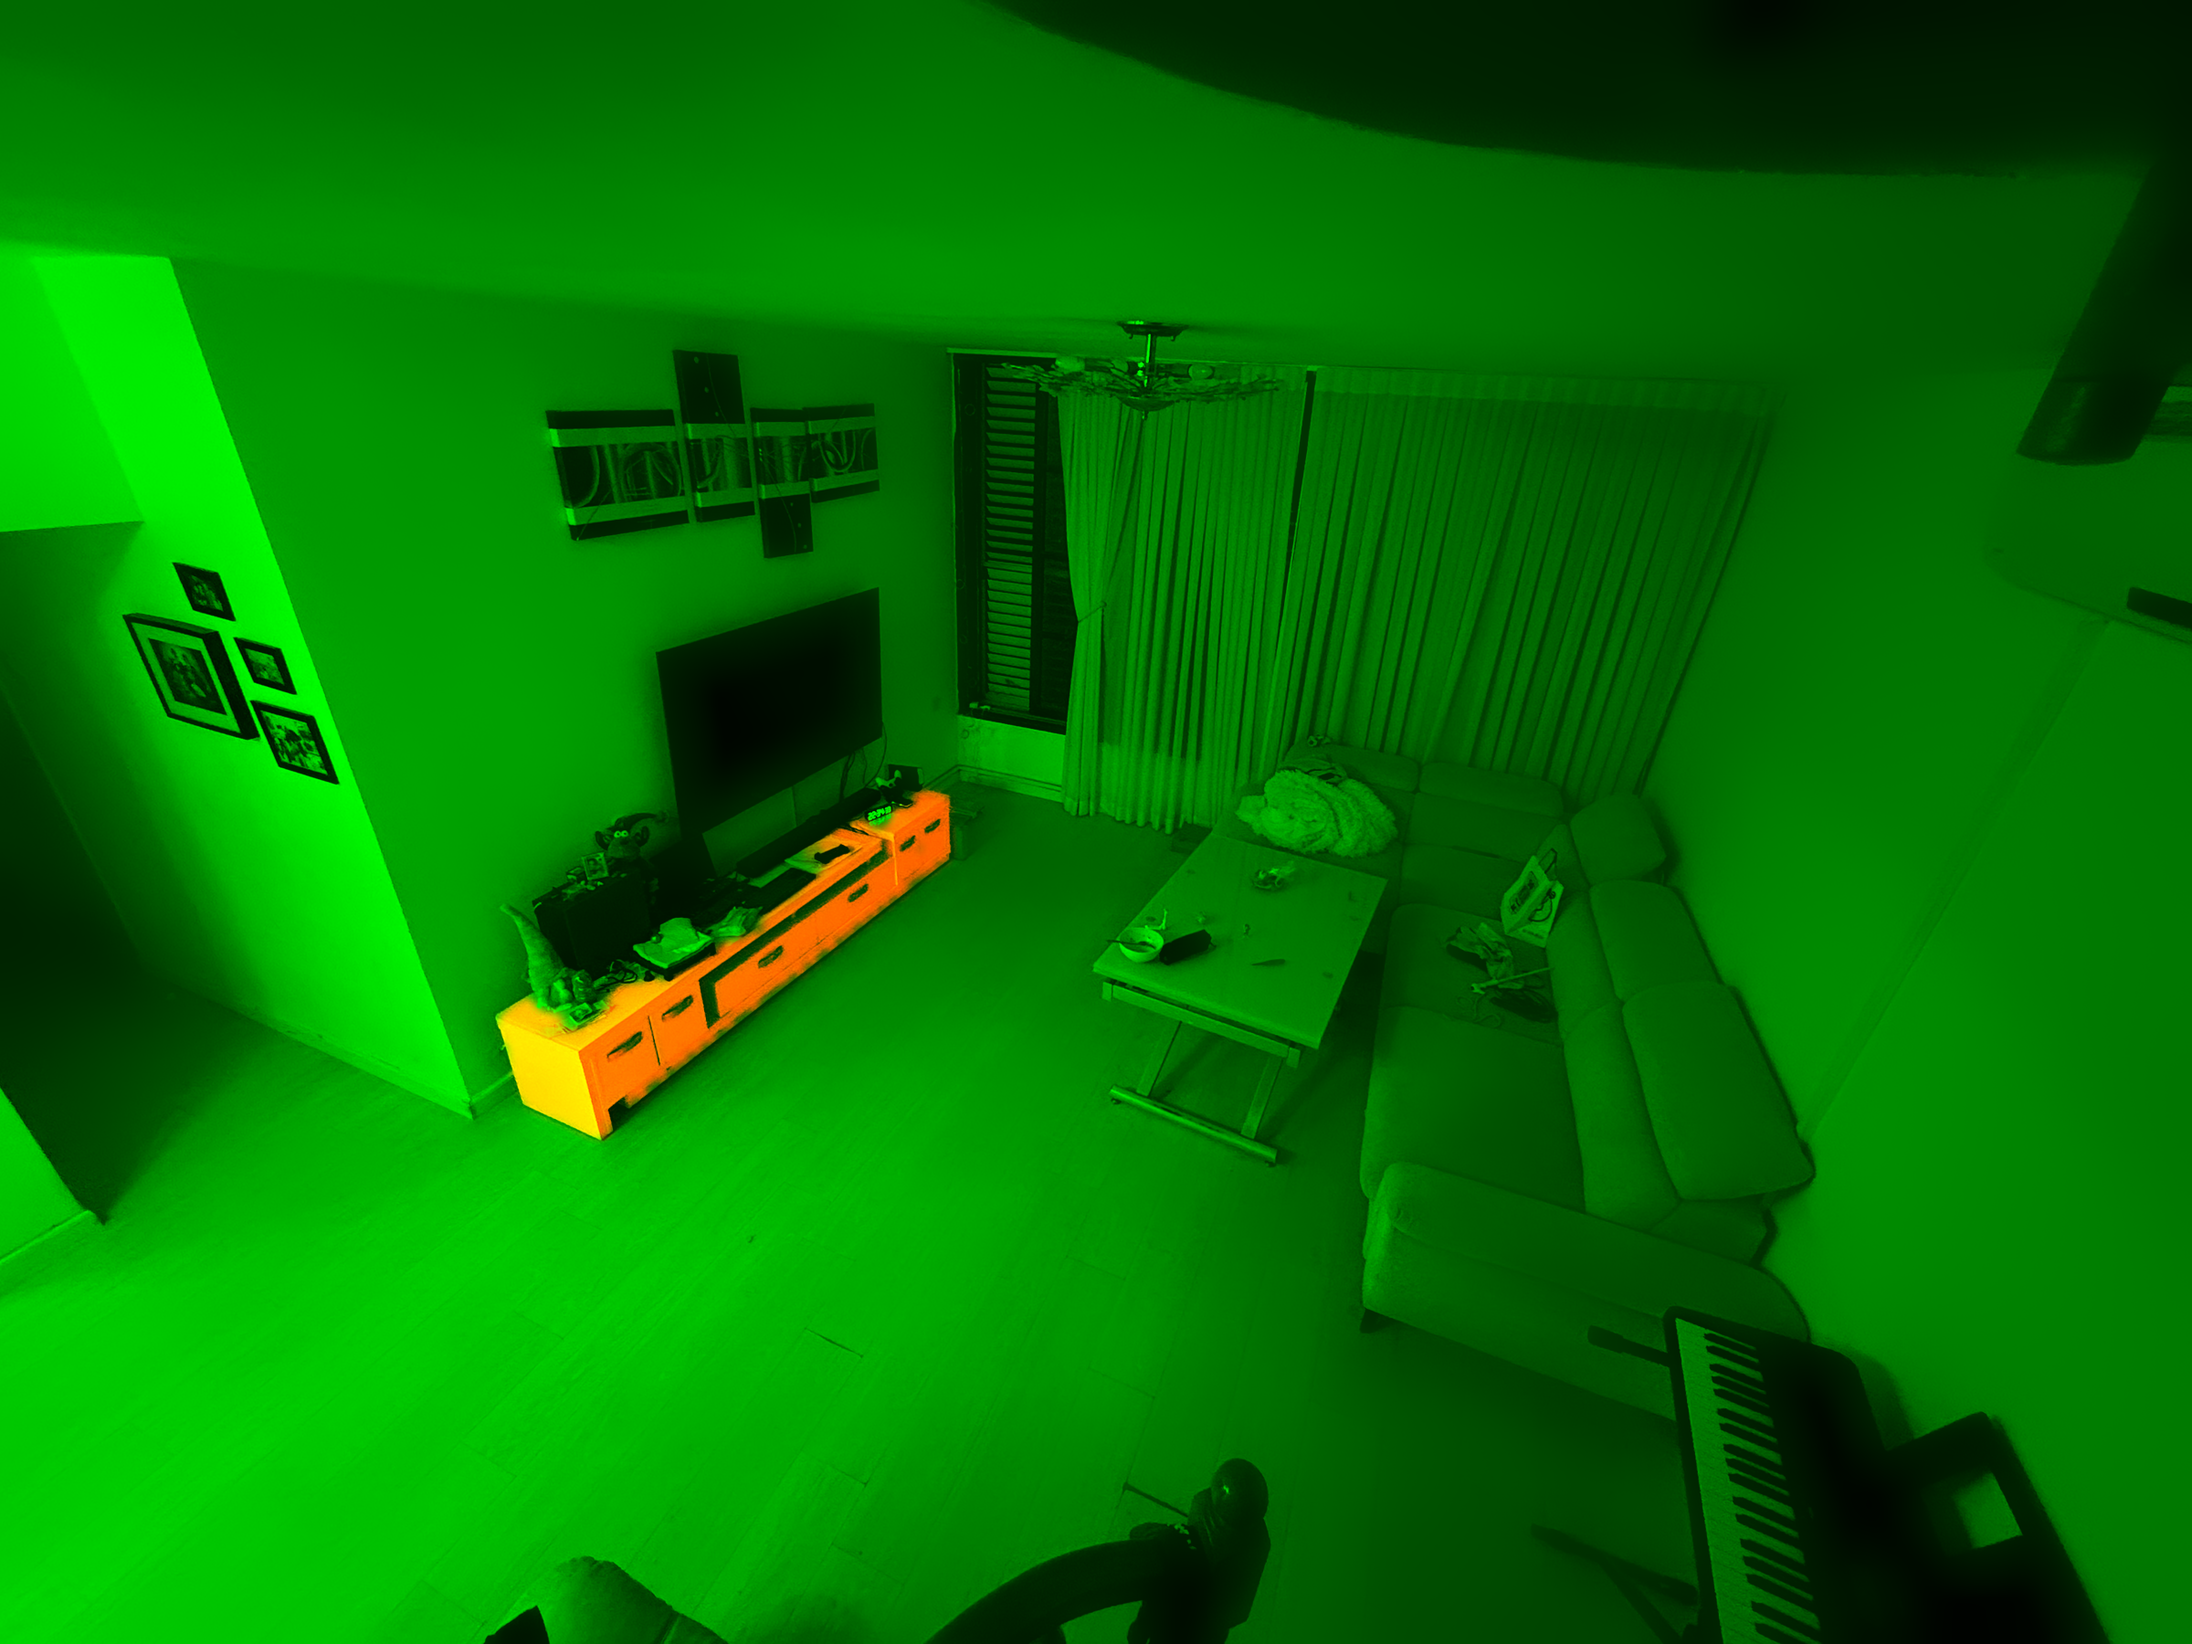
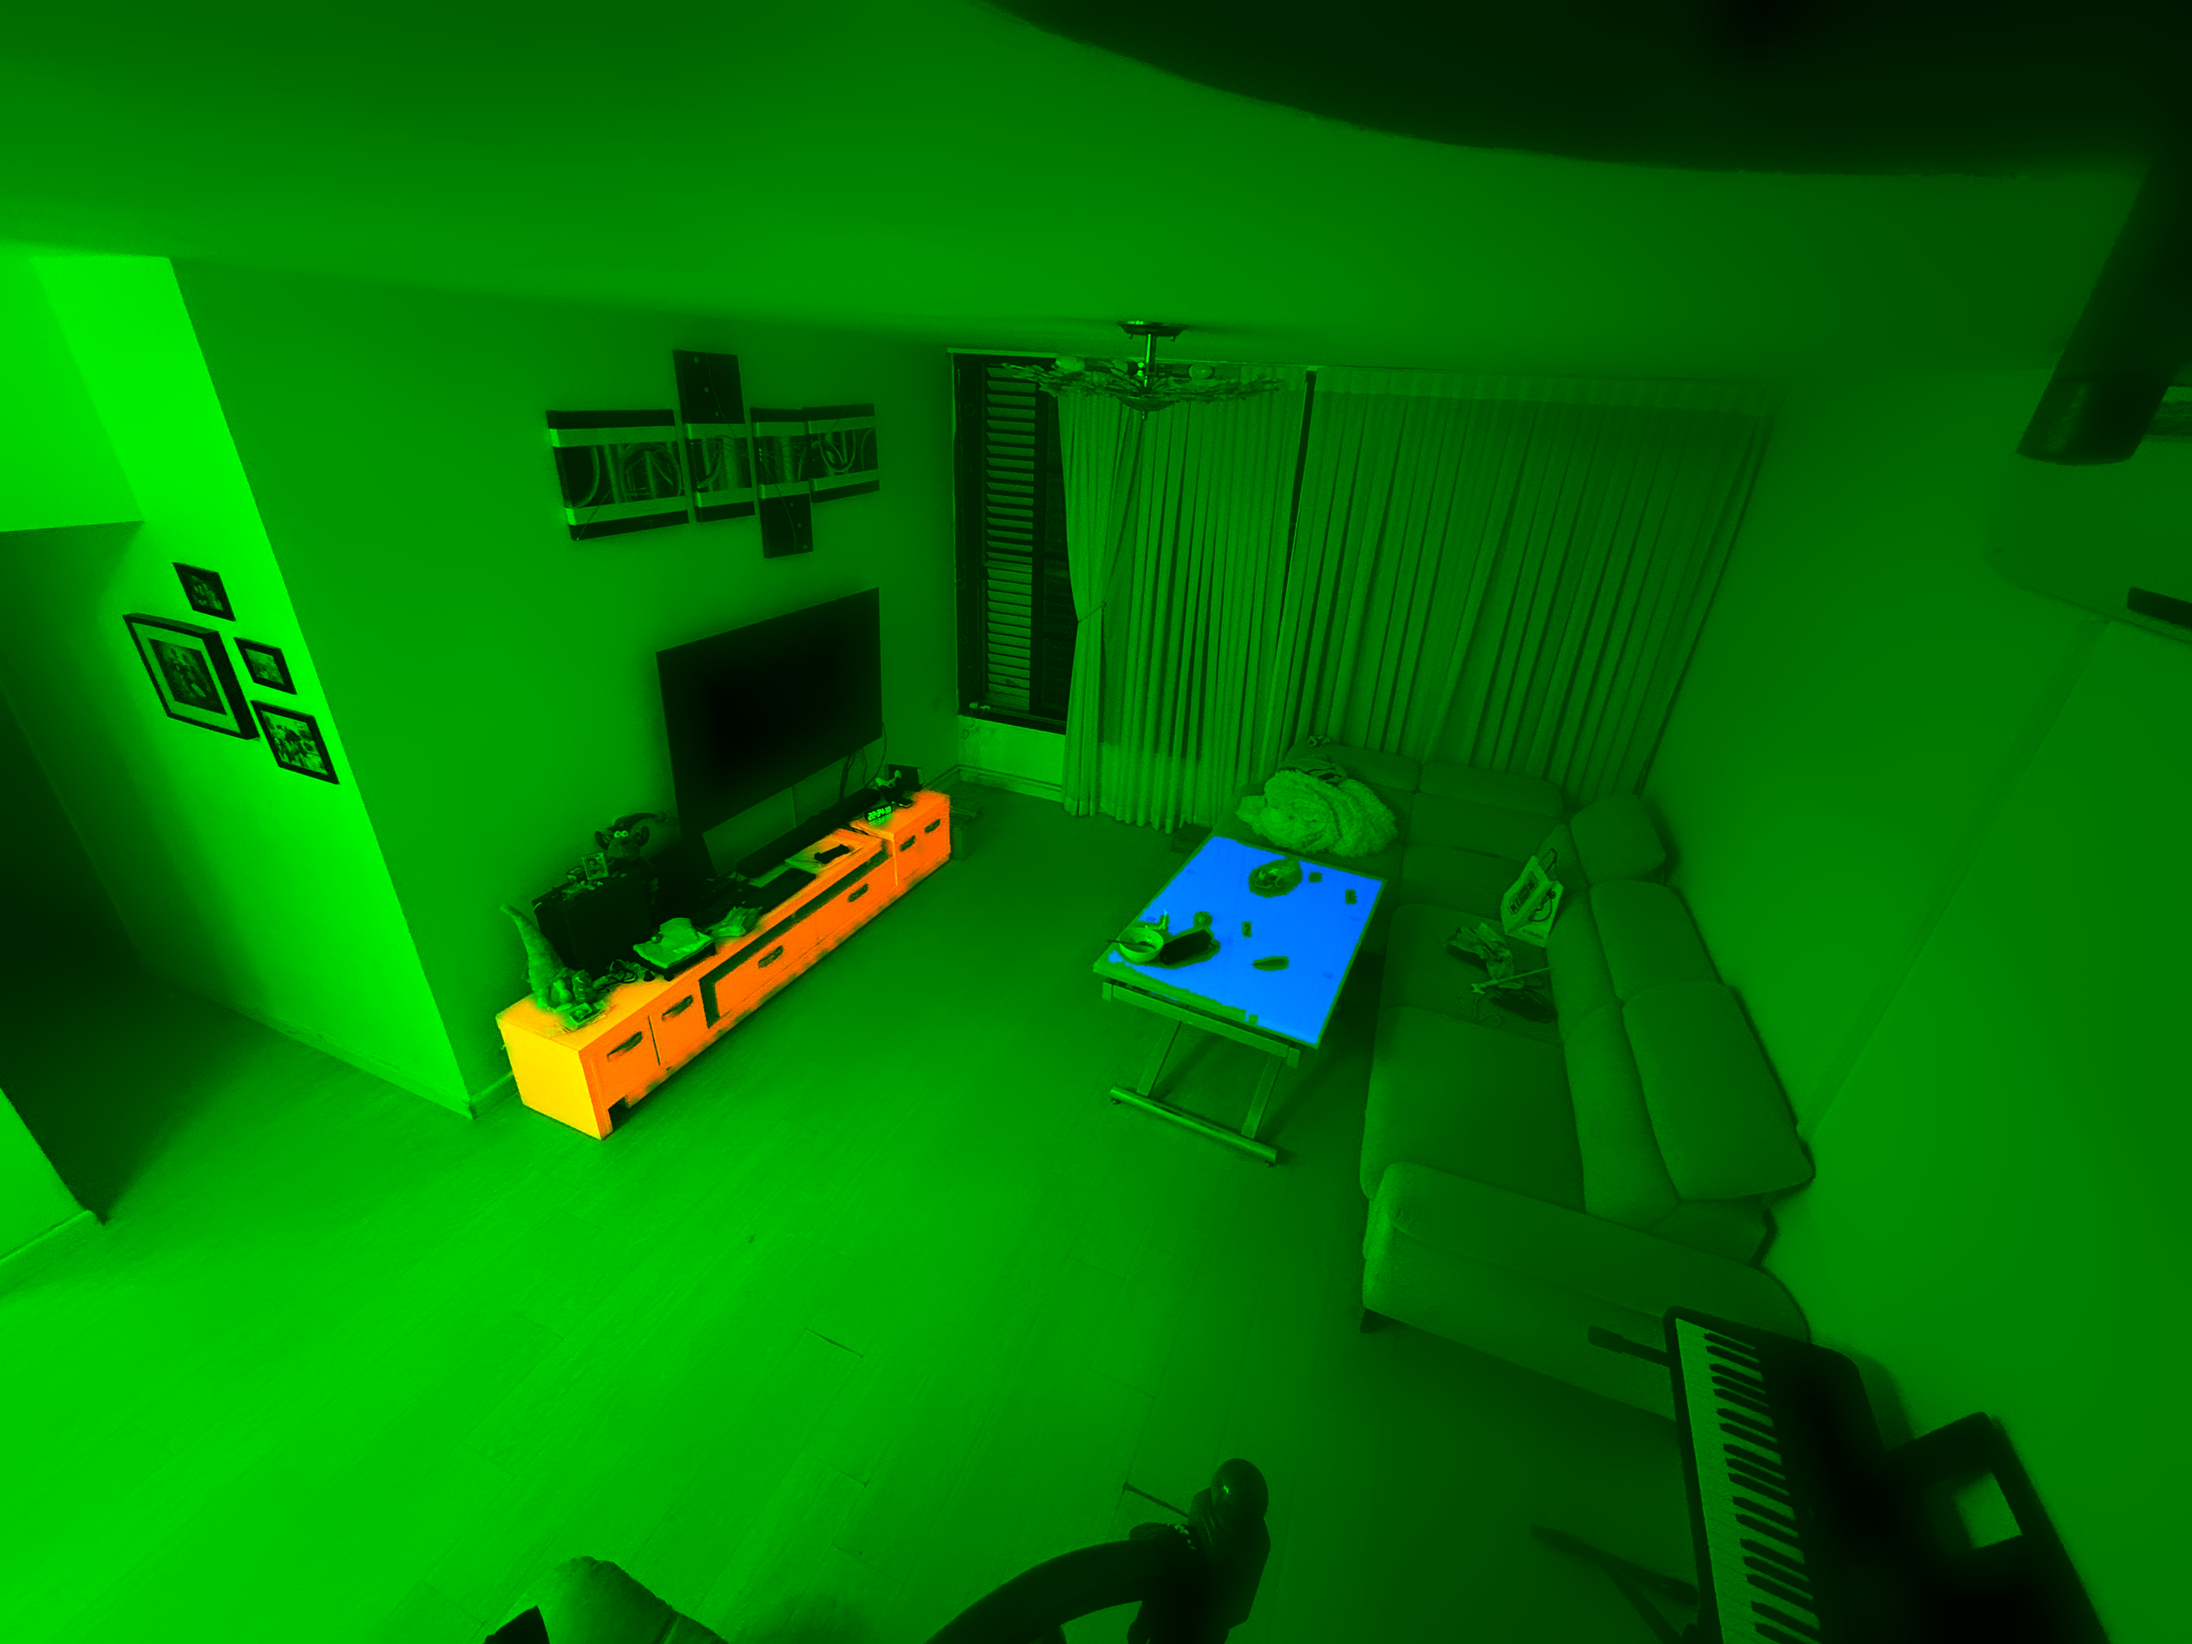
Glass table layer (photo 1), leak fixes

Changed region(s): [[0.5, 0.4978, 0.625, 0.6533]]

diff --git a/index.html b/index.html
@@ -66,8 +66,8 @@ void main(){vec3 o=lin(texture2D(ph,v).rgb);float L=lum(o);
  for(int i=0;i<7;i++){ if(i==1){
    if(fmode>1.5){vec3 q=Hi*vec3(v*asp,1.);vec2 uv=q.xy/q.z/tscale;
      vec3 t=lin(texture2D(ft,uv).rgb);if(stainOn>.5)t=lin(stain)*(lum(t)/tmean)*.9;
-     float sh=min(Ls/mean[1],2.2)*pow(det,.18);float spec=max(0.,Ls/mean[1]-1.3)*.35+max(0.,det-1.25)*.25;c=mix(c,t*sh/1.05+spec*.25,w[1]);}
-   else if(fmode>.5)c=mix(c,lin(col[1])*min(L/mean[1],3.),w[1]);
+     float sh=min(Ls/mean[1],2.2)*pow(det,.18);float spec=max(0.,Ls/mean[1]-1.3)*.35+max(0.,det-1.25)*.25;vec3 nf=t*sh/1.05+spec*.25;c=mix(c,nf,w[1]);c=mix(c,nf*vec3(.78,.88,.85)*.9+vec3(max(L-Ls,0.))*1.2+o*.12,mcc.b);}
+   else if(fmode>.5){vec3 nf=lin(col[1])*min(L/mean[1],3.);c=mix(c,nf,w[1]);c=mix(c,lin(col[1])*min(Ls/mean[1],2.)*vec3(.78,.88,.85)*.9+vec3(max(L-Ls,0.))*1.2+o*.12,mcc.b);}
   } else if(on[i]>.5){vec3 nc=(i==3)?lin(col[i])*pow(min(Ls/mean[i],4.),.8)*pow(det,.55):(i==4)?lin(col[i])*pow(min(Ls/mean[i],3.),.9)*pow(det,.8):lin(col[i])*min(L/mean[i],3.);c=mix(c,nc,w[i]);} }
  if(on[7]>.5)c=mix(c,lin(col[7])*min(L/mean[0],3.),wa);
  c*=lt;if(dark>0.){float d=distance(v,vec2(.5,.25));c*=mix(1.,.35+.9*exp(-d*d*6.),dark);}
